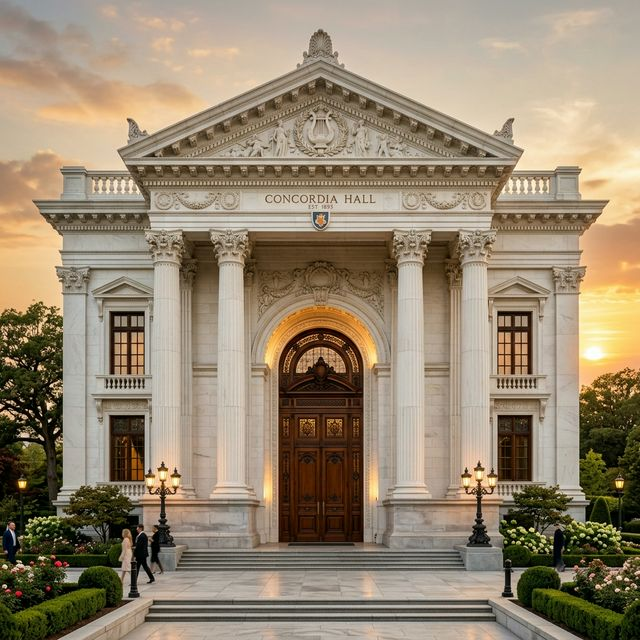
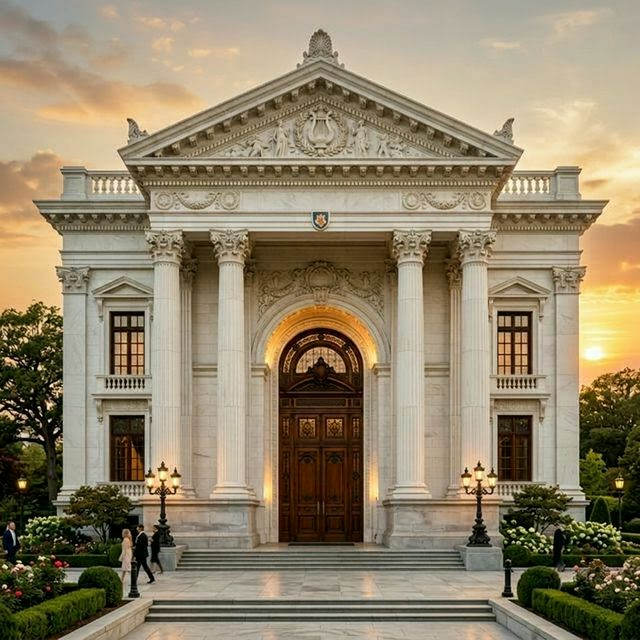
Update website content

diff --git a/index.html b/index.html
@@ -4,10 +4,10 @@
 <head>
   <meta charset="UTF-8" />
   <meta name="viewport" content="width=device-width, initial-scale=1.0" />
-  <title>Malaz & Alaa Aldin — Wedding Invitation · June 20, 2026</title>
+  <title>Alaa Aldin & Malaz — Wedding Invitation · June 20, 2026</title>
   <meta name="description"
-    content="You are invited to celebrate the wedding of Malaz & Alaa Aldin — June 20, 2026, in Cairo, Egypt. A cinematic love story." />
-  <meta property="og:title" content="Malaz & Alaa Aldin — Wedding Invitation" />
+    content="You are invited to celebrate the wedding of Alaa Aldin & Malaz — June 20, 2026, in Cairo, Egypt. A cinematic love story." />
+  <meta property="og:title" content="Alaa Aldin & Malaz — Wedding Invitation" />
   <meta property="og:description" content="Celebrate with us · June 20, 2026 · Cairo, Egypt." />
   <meta property="og:type" content="website" />
   <link rel="preconnect" href="https://fonts.googleapis.com" />
@@ -27,7 +27,7 @@
           stroke="oklch(0.85 0.06 75)" stroke-width="1.2" />
       </svg>
       <p class="preloader__label">You have received an invitation from</p>
-      <h1 class="preloader__name">Malaz &amp; Alaa Aldin</h1>
+      <h1 class="preloader__name">Alaa Aldin &amp; Malaz</h1>
     </div>
   </div>
 
@@ -68,7 +68,7 @@
       <div class="hero__content">
         <p class="hero__eyebrow reveal" data-delay="2600">✦ Save the date ✦</p>
         <h1 class="hero__title reveal" data-delay="2800">
-          Malaz &amp; Alaa Aldin
+          Alaa Aldin &amp; Malaz
         </h1>
         <div class="hero__rule reveal" data-delay="3400"></div>
         <p class="hero__subtitle reveal" data-delay="3600">we are getting married</p>
@@ -201,14 +201,14 @@
         <p class="eyebrow">with all our love</p>
         <h2 class="final__title">We can't wait<br /><span class="text-gradient-rose">to celebrate with you.</span></h2>
         <div class="final__rule"></div>
-        <p class="final__signature">Malaz &amp; Alaa Aldin</p>
+        <p class="final__signature">Alaa Aldin &amp; Malaz</p>
       </div>
     </section>
 
     <!-- FOOTER -->
     <footer class="footer">
       <div class="container footer__inner">
-        <div class="footer__col">Malaz &amp; Alaa Aldin</div>
+        <div class="footer__col">Alaa Aldin &amp; Malaz</div>
         <div class="footer__col footer__col--center">
           <p>forever, beginning june twenty</p>
           <p class="footer__credits">made with love by <a href="https://ajwa2.netlify.app/" target="_blank">Ajwaa</a>
